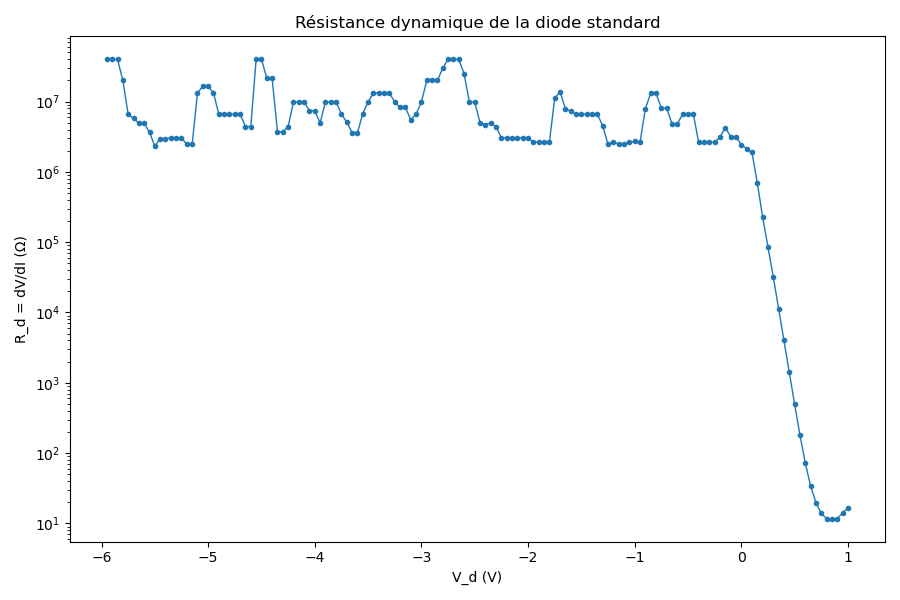
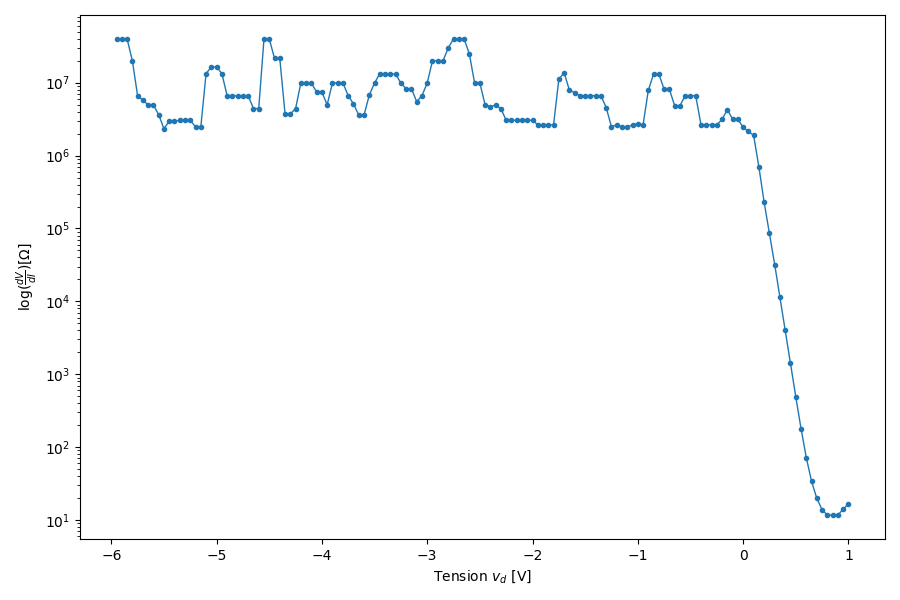
mise en commentaire de lignes qui semblent rien faire

diff --git a/Labo3/Programmation/Resistance_dynamique.py b/Labo3/Programmation/Resistance_dynamique.py
@@ -34,9 +34,9 @@ def read_lvm_auto(path: Path):
 df_for = read_lvm_auto(FOR_FILE)
 df_rev = read_lvm_auto(REV_FILE)
 
-df_for["V"] =  np.abs(df_for["V"])
-if df_for["I"].median() < 0:
-    df_for["I"] = -df_for["I"]   # courant direct positif
+# df_for["V"] =  np.abs(df_for["V"])
+# if df_for["I"].median() < 0:
+#     df_for["I"] = -df_for["I"]   # courant direct positif
 
 df_rev["V"] = -np.abs(df_rev["V"])  # tensions négatives en inverse
 
@@ -68,7 +68,7 @@ Rd_s = pd.Series(Rd).rolling(window=SMOOTH_RD, center=True, min_periods=1).media
 plt.figure(figsize=(9,6))
 plt.plot(V, Rd_s, marker='o', markersize=3, linewidth=1)
 plt.xlabel(r"Tension $v_d$ [V]")
-plt.ylabel(r"$\log(R_d) = \log(\frac{dV}{dI}) [\Omega]$")
+plt.ylabel(r"$\log(\frac{dV}{dI}) [\Omega]$")
 # plt.title("Résistance dynamique de la diode standard")
 plt.yscale("log")
 plt.tight_layout()
